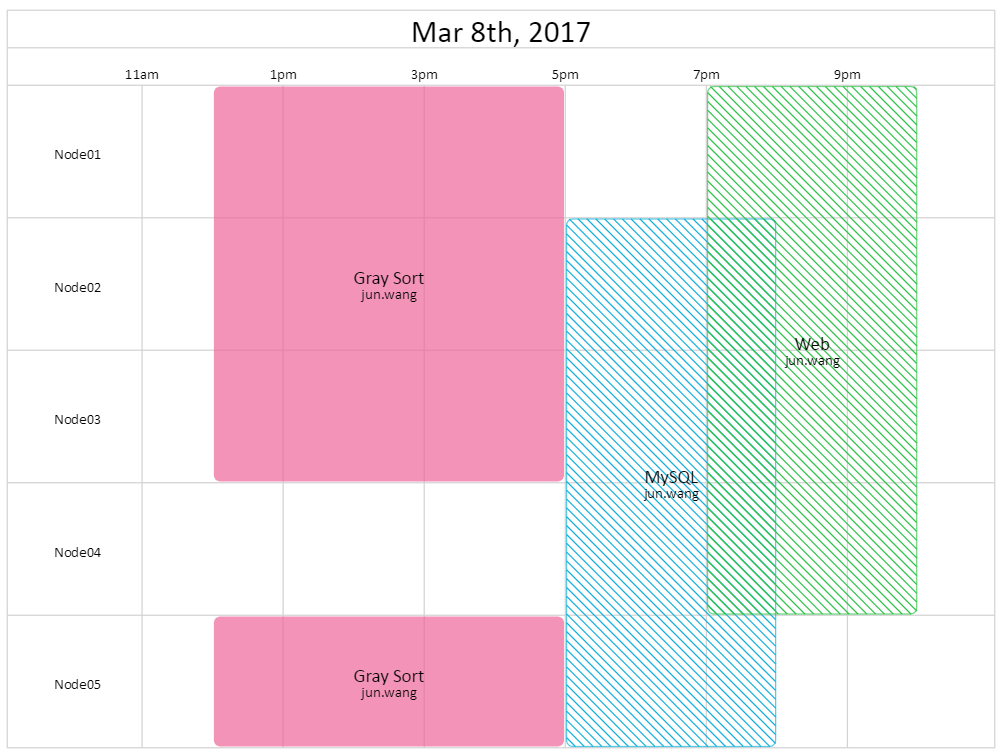
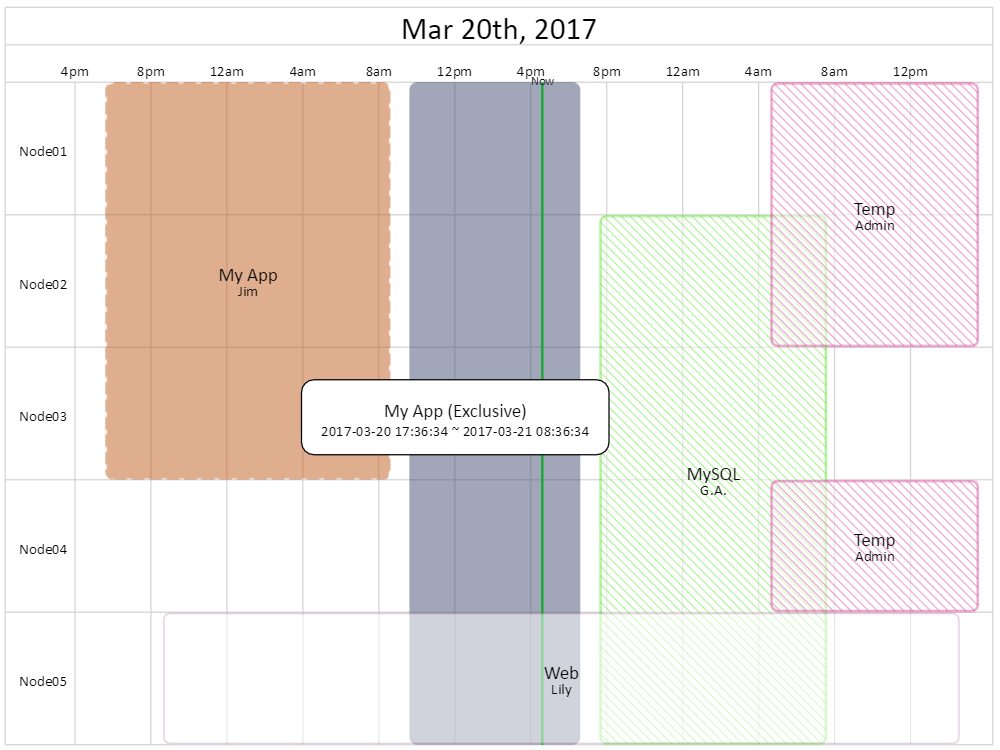
Update example

diff --git a/example/index.html b/example/index.html
@@ -23,8 +23,9 @@
     <script type="text/javascript">
       $('#canvas').verticalResource({
         calendar: {
-          start: moment('2017-03-08 11:00:00'),
-          end: moment('2017-03-08 23:00:00')
+          start: moment().subtract(1, 'day'),
+          end: moment().add(1, 'day'),
+          showCurrentTimeline: true
         },
         vertical: {
           tooltip: {
@@ -34,12 +35,21 @@
         resources: ['Node01','Node02','Node03','Node04','Node05'],
         verticals: [
           {
-            name: "Gray Sort",
-            owner: "jun.wang",
+            name: "My App",
+            owner: "Jim",
             shareType: "Exclusive",
-            resources: ['Node01','Node02','Node03', 'Node05'],
-            beginTime: moment('2017-03-08 12:00:00'),
-            endTime: moment('2017-03-08 17:00:00'),
+            resources: ['Node01','Node02','Node03'],
+            beginTime: moment().subtract(23, 'hour'),
+            endTime: moment().subtract(8, 'hour'),
+            services: []
+          },
+          {
+            name: "Gray Sort",
+            owner: "Jun Wang",
+            shareType: "Exclusive",
+            resources: ['Node01','Node02','Node03', 'Node04', 'Node05'],
+            beginTime: moment().subtract(7, 'hour'),
+            endTime: moment().add(2, 'hour'),
             services: [
               {
                 name: "Hadoop 2.7.0"
@@ -51,22 +61,31 @@
           },
           {
             name: "MySQL",
-            owner: "jun.wang",
+            owner: "G.A.",
             shareType: "Share",
             resources: ['Node02','Node03','Node04', 'Node05'],
-            beginTime: moment('2017-03-08 17:00:00'),
-            endTime: moment('2017-03-08 20:00:00'),
+            beginTime: moment().add(3, 'hour'),
+            endTime: moment().add(15, 'hour'),
             services: []
           },
           {
             name: "Web",
-            owner: "jun.wang",
+            owner: "Lily",
             shareType: "Negligible",
-            resources: ['Node01','Node02','Node03', 'Node04'],
-            beginTime: moment('2017-03-08 19:00:00'),
-            endTime: moment('2017-03-08 22:00:00'),
+            resources: ['Node05'],
+            beginTime: moment().subtract(20, 'hour'),
+            endTime: moment().add(22, 'hour'),
             services: []
-          }
+          },
+          {
+            name: "Temp",
+            owner: "Admin",
+            shareType: "Share",
+            resources: ['Node01','Node02', 'Node04'],
+            beginTime: moment().add(12, 'hour'),
+            endTime: moment().add(23, 'hour'),
+            services: []
+          },
         ]
       });
     </script>

diff --git a/src/vertical.js b/src/vertical.js
@@ -401,6 +401,10 @@
         var borderRec = new paper.Rectangle(x, y, width, height);
         var cornerSize = new paper.Size(5, 5);
         var recVertical = new paper.Path.Rectangle(borderRec, cornerSize);
+        recVertical.strokeColor = fillColor;
+        recVertical.opacity = s.vertical.opacity;
+        recVertical.vertical = v[i];
+        recVertical.strokeWidth = 2;
         if (v[i].shareType == "Exclusive") {
           recVertical.fillColor = fillColor;
         } else if (v[i].shareType == "Share") {
@@ -408,12 +412,8 @@
           this.fillDownwardDiagonal(recVertical, fillColor);
         } else {
           recVertical.fillColor = 'white';
-          this.fillDownwardDiagonal(recVertical, fillColor, s.vertical.dashArray);
+          recVertical.strokeWidth = 1;
         }
-        recVertical.strokeColor = fillColor;
-        recVertical.opacity = s.vertical.opacity;
-        recVertical.vertical = v[i];
-        recVertical.strokeWidth = 2;
 
         if (v[i].endTime.isBefore(moment())) {
           recVertical.dashArray = s.vertical.dashArray;
